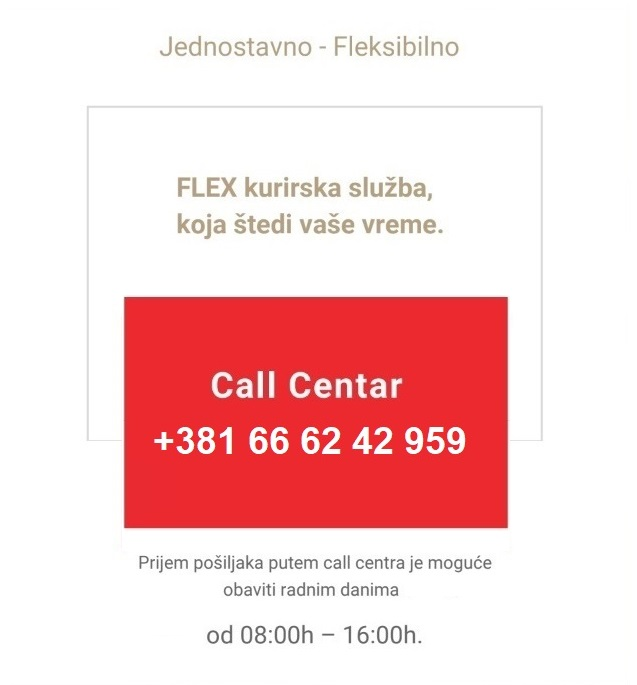
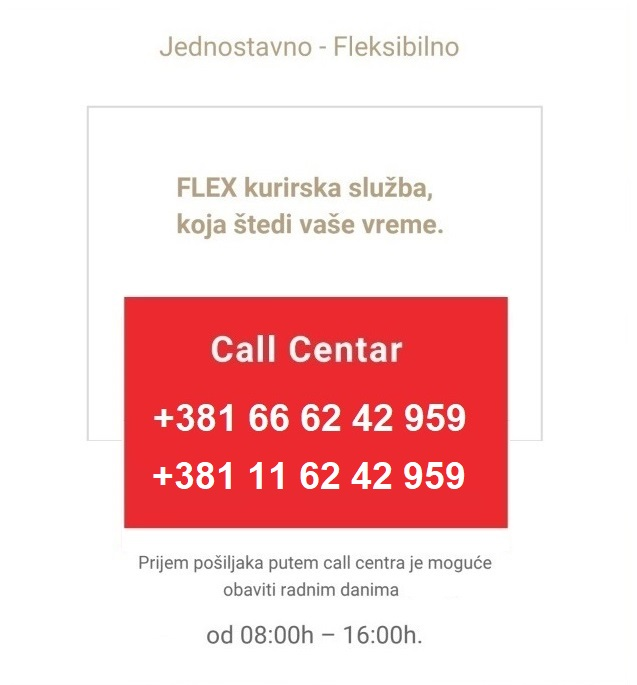
data update

Changed region(s): [[0.2386, 0.4905, 0.7457, 0.7358]]

diff --git a/src/Components/TableDodatneUsluge/tableDodatneUsluge.jsx b/src/Components/TableDodatneUsluge/tableDodatneUsluge.jsx
@@ -3,7 +3,7 @@ import "./tableDodatneUsluge.css";
 
 function TableDodatneUsluge(){
     return(
-        <div className="danasZaSutra">
+        <div className="dodatneUsluge">
 <div className="mainTitle">
     <h1 className="cenovnik-h1">CENOVNIK - DODATNE USLUGE</h1>
 </div>
@@ -51,9 +51,9 @@ function TableDodatneUsluge(){
     
   
     </table>
-    <p>Za vrednosne pošiljke na cenu usluge utvrđenu po masi pošiljke ili na poštarinu za određenu vrstu vanstandardne/specijalizovane pošiljke, dodaje se 1,1% od naznačenog iznosa vrednosti, a minimalno 90,00 RSD sa PDV-om.</p>
-	<p>Za otkupne pošiljke na cenu usluge utvrđenu po masi pošiljke ili na poštarinu za određenu vrstu vanstandardne/specijalizovane pošiljke, dodaje se 1,2% od naznačenog iznosa otkupnine, a minimalno 120,00RSD sa PDV-om.</p>
-	<p>Ležarina po danu se naplaćuje 25,00 RSD sa PDV-om.</p>
+    <p className="p-dodatneUsluge">Za vrednosne pošiljke na cenu usluge utvrđenu po masi pošiljke ili na poštarinu za određenu vrstu vanstandardne/specijalizovane pošiljke, dodaje se 1,1% od naznačenog iznosa vrednosti, a minimalno 90,00 RSD sa PDV-om.</p>
+	<p className="p-dodatneUsluge">Za otkupne pošiljke na cenu usluge utvrđenu po masi pošiljke ili na poštarinu za određenu vrstu vanstandardne/specijalizovane pošiljke, dodaje se 1,2% od naznačenog iznosa otkupnine, a minimalno 120,00RSD sa PDV-om.</p>
+	<p className="p-dodatneUsluge">Ležarina po danu se naplaćuje 25,00 RSD sa PDV-om.</p>
         </div>
     )
 }

diff --git a/src/Pages/Uslugee/uslugee.jsx b/src/Pages/Uslugee/uslugee.jsx
@@ -35,7 +35,7 @@ function Uslugee() {
 
             <div className="uslugeMenu">
 
-                <div className="singleContent" onClick={col}>
+                {/* <div className="singleContent" onClick={col}>
                     <button type="button" class="collapsible"  >Dostava Beograd - Kurirska dostava</button>
                     <div class="content">
                         <p> Pozovite nas da preuzmeno vašu pošiljku danas i primaoc može da očekuje svoj paket odmah ili najkasnije do
@@ -45,7 +45,7 @@ function Uslugee() {
                             telefonski ili elektronski najkasnije do 12 časova, nakon toga kurir pošiljku preuzima i dostavlja paket na
                             teritioriji grada Beograda istog dana, najkasnije do 18 časova.</p>
                     </div>
-                    </div>
+                    </div> */}
 
                     <div className="singleContent" onClick={col} >
                     <button type="button" class="collapsible" >Danas za danas - Kurirska dostava</button>

diff --git a/src/Components/TableDodatneUsluge/tableDodatneUsluge.css b/src/Components/TableDodatneUsluge/tableDodatneUsluge.css
@@ -4,10 +4,12 @@
     box-sizing: border-box;
 }
 
-table{
-    width: 100rem;
-    height: 70vh;
+.dodatneUsluge table{
+    width: 70rem;
+    height:30vh;
     border-spacing: 0 5px;
+    -webkit-box-shadow: 1px 3px 20px 4px #6B5E4C; 
+    box-shadow: 1px 3px 20px 4px #6B5E4C;
 }
 tr:nth-child(even){
     background-color: #ece9e9;
@@ -20,18 +22,36 @@ tr:nth-child(odd){
 /* td{
     border-right: 0.5px solid rgb(131, 131, 131);
 } */
-.danasZaSutra{
+.dodatneUsluge{
     width: 100%;
-    height: 100vh;
+    height: 70vh;
     display: flex;
     flex-direction: column;
     justify-content: center;
     align-items: center;
+    margin-top: 0 !important;
 }
 
 .mainTitle{
-    width: 100rem;
+    width: 70rem;
     height: 3rem;
-    background-color:#b59f80;
+    background-color: #b59f80;
     color: white;
+}
+
+.cenovnik-h1{
+    color: white;
+}
+
+td{
+    width: 4em;
+    border-right: 1px solid rgba(199, 195, 189, 0.813);
+}
+
+th{
+    width: 4em;
+}
+
+.p-dodatneUsluge{
+    margin-top: 0.5em;
 }

diff --git a/src/Components/TableDanasZaDanas/tableDanasZaDanas.css b/src/Components/TableDanasZaDanas/tableDanasZaDanas.css
@@ -5,7 +5,7 @@
 }
 
 table{
-    width: 100rem;
+    width: 70rem;
     height: 70vh;
     border-spacing: 0 5px;
     -webkit-box-shadow: 1px 3px 20px 4px #6B5E4C; 
@@ -24,7 +24,7 @@ tr:nth-child(odd){
 } */
 .danasZaSutra{
     width: 100%;
-    height: 100vh;
+    height: 90vh;
     display: flex;
     flex-direction: column;
     justify-content: center;
@@ -33,7 +33,7 @@ tr:nth-child(odd){
 }
 
 .mainTitle{
-    width: 100rem;
+    width: 70rem;
     height: 3rem;
     background-color: #b59f80;
     color: white;
@@ -41,4 +41,12 @@ tr:nth-child(odd){
 
 .cenovnik-h1{
     color: white;
+}
+
+td{
+    width: 4em;
+}
+
+th{
+    width: 4em;
 }

diff --git a/src/Pages/Zakazi/zakazi.jsx b/src/Pages/Zakazi/zakazi.jsx
@@ -71,7 +71,7 @@ function Zakazi() {
                     <p className="p-callCentar">Naši operatori stoje Vam na usluzi za sve potrebne informacije.</p>
                     <p className="p-callCentar">RADNO VREME CALL CENTRA</p>
                     <p className="p-callCentar">Ponedeljak - Petak od 08h do 16h</p>
-                    <p className="p-callCentarNum">+381 66 6242959</p>
+                    <p className="p-callCentarNum">+ 381 66 62 42 959<br></br>+ 381 11 62 42 959</p>
                     </div>
             </div>
             <Footer />

diff --git a/src/Components/TableDanasZaSutra/tableDanasZaSutra.css b/src/Components/TableDanasZaSutra/tableDanasZaSutra.css
@@ -5,9 +5,12 @@
 }
 
 table{
-    width: 100rem;
-    height: 70vh;
+    width: 70rem;
+    height: 50vh;
     border-spacing: 0 5px;
+    -webkit-box-shadow: 1px 3px 20px 4px #6B5E4C; 
+    box-shadow: 1px 3px 20px 4px #6B5E4C;
+    
 }
 tr:nth-child(even){
     background-color: #ece9e9;
@@ -31,8 +34,20 @@ tr:nth-child(odd){
 }
 
 .mainTitle{
-    width: 100rem;
+    width: 70rem;
     height: 3rem;
     background-color: #b59f80;
     color: white;
+}
+
+.cenovnik-h1{
+    color: white;
+}
+
+td{
+    width: 4em;
+}
+
+th{
+    width: 4em;
 }

diff --git a/src/Components/Header/header.jsx b/src/Components/Header/header.jsx
@@ -8,10 +8,10 @@ function Header(){
     return(
         <div className="header">
 <div className="up">
-   <p id="header-p">Pozovite nas bilo kad. Stižemo bilo gde!</p>
+   <p id="header-p">Dostava uz osmeh!</p>
     <div className="number">
     <div id="numberBox"><img id="tel" src={telephoneIcon} alt="tel"></img></div>
-    <p id="number-p">+381 66 6242959</p>
+    <p id="number-p">+381 66 6242959<br></br> +381 11 6242959</p>
     </div>
 </div>
 <div className="down">

diff --git a/src/Components/TableDanasZaSutra/tableDanasZaSutra.jsx b/src/Components/TableDanasZaSutra/tableDanasZaSutra.jsx
@@ -73,9 +73,9 @@ function TableDanasZaSutra(){
     </tr>
     <tr>
         <td>preko 50kg</td>
-        <td></td>
-        <td>Za pošiljke koje premašuju masu 50kg, svaki sledeći kilogram se naplaćuje 40,00RSD sa PDV-om/1kg</td>
-        <td></td>
+       
+        <td colSpan="3">Za pošiljke koje premašuju masu 50kg, svaki sledeći kilogram se naplaćuje 40,00RSD sa PDV-om/1kg</td>
+        
     </tr>
 </table>
         </div>

diff --git a/src/Components/TableDanasZaDanas/tableDanasZaDanas.jsx b/src/Components/TableDanasZaDanas/tableDanasZaDanas.jsx
@@ -73,9 +73,8 @@ function TableDanasZaDanas(){
     </tr>
     <tr>
         <td>preko 50kg</td>
-        <td></td>
-        <td>Za pošiljke koje premašuju masu 50kg, svaki sledeći kilogram se naplaćuje 40,00RSD sa PDV-om/1kg</td>
-        <td></td>
+        <td colspan="3">Za pošiljke koje premašuju masu 50kg, svaki sledeći kilogram se naplaćuje 40,00RSD sa PDV-om/1kg</td>
+        
     </tr>
 </table>
         </div>

diff --git a/src/Components/SpecijalizovanePosiljke/specPosiljke.jsx b/src/Components/SpecijalizovanePosiljke/specPosiljke.jsx
@@ -96,7 +96,7 @@ function SpecijalizovanePosiljke(){
         <td>5.070,00 RSD</td>
     </tr>
     </table>
-    <p>Vanstandardne/specijalizovane pošiljke se uručuju isključivo uslugom danas za sutra</p>
+    <p className="p-dodatneUsluge">Vanstandardne/specijalizovane pošiljke se uručuju isključivo uslugom danas za sutra</p>
         </div>
     )
 }

diff --git a/src/Components/Footer/footer.jsx b/src/Components/Footer/footer.jsx
@@ -33,7 +33,7 @@ function Footer() {
 
                     <div id="telefon" >
                         <img id="img-tel" src={telLogo} alt="tel"></img>
-                        <span>+381 66 6242959</span>
+                        <span>+381 66 62 42 959<br></br>+381 11 62 42 959</span>
                     </div>
 
                 </div>

diff --git a/src/Components/Header/header.css b/src/Components/Header/header.css
@@ -91,7 +91,9 @@ height: 5.5em;
 
 #tel{
     display: inline-block;
-    width: 1.7em;
+    width: 2em;
+    margin-right: 1em;
+   
     
 }
 
@@ -107,5 +109,7 @@ height: 5.5em;
     display: flex;
     justify-content: center;
     align-items: center;
+    text-align: left;
+
     margin: 0;
 }
